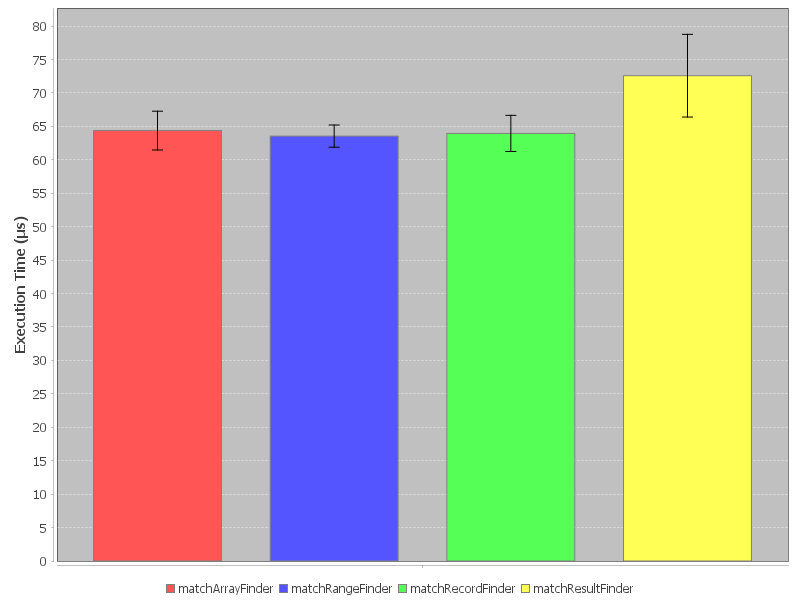
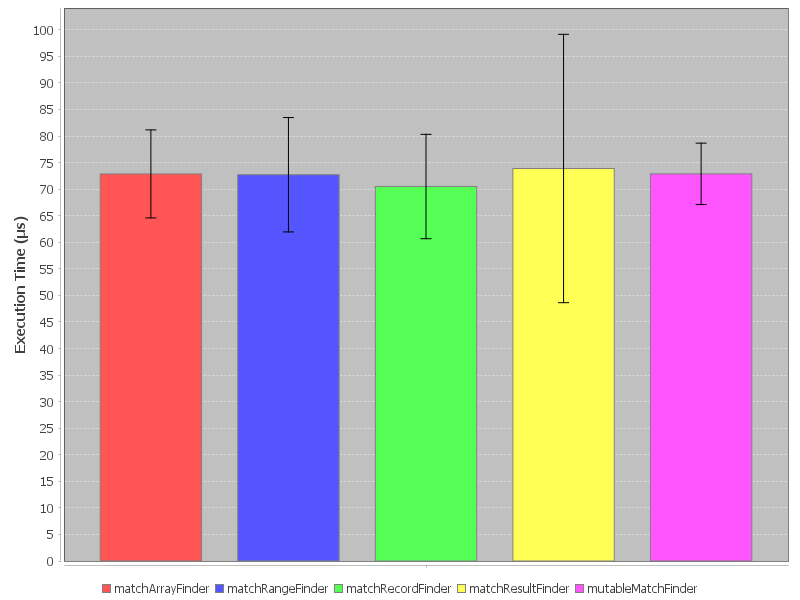
Refactor: new benchmark case to compare object mutation against creating a new object

diff --git a/replacer-backend/replacer-finder-benchmark/src/main/java/es/bvalero/replacer/finder/benchmark/iterable/IterableMutableMatchFinder.java b/replacer-backend/replacer-finder-benchmark/src/main/java/es/bvalero/replacer/finder/benchmark/iterable/IterableMutableMatchFinder.java
@@ -1,0 +1,51 @@
+package es.bvalero.replacer.finder.benchmark.iterable;
+
+import es.bvalero.replacer.finder.FinderPage;
+import java.util.Iterator;
+import java.util.NoSuchElementException;
+import lombok.AccessLevel;
+import lombok.AllArgsConstructor;
+
+@AllArgsConstructor(access = AccessLevel.PRIVATE)
+class IterableMutableMatchFinder {
+
+    public static Iterable<MutableMatch> find(FinderPage page, MutableMatchFinder finder, MutableMatch match) {
+        return () -> new LinearIterator(page, finder, match);
+    }
+
+    private static class LinearIterator implements Iterator<MutableMatch> {
+
+        private final FinderPage page;
+        private final MutableMatchFinder finder;
+        private int start;
+        private final MutableMatch next;
+
+        LinearIterator(FinderPage page, MutableMatchFinder finder, MutableMatch match) {
+            this.page = page;
+            this.finder = finder;
+            this.start = 0;
+            this.next = match;
+        }
+
+        @Override
+        public boolean hasNext() {
+            // This may throw an exception, but it is eventually captured by the indexer.
+            this.finder.findResult(this.page, this.start, this.next);
+            if (this.next.getStart() < 0) {
+                this.start = Integer.MAX_VALUE;
+                return false;
+            } else {
+                this.start = this.next.end();
+                return true;
+            }
+        }
+
+        @Override
+        public MutableMatch next() {
+            if (this.next.getStart() < 0) {
+                throw new NoSuchElementException();
+            }
+            return this.next;
+        }
+    }
+}

diff --git a/replacer-backend/replacer-finder-benchmark/src/main/java/es/bvalero/replacer/finder/benchmark/iterable/MatchFinderJmhBenchmark.java b/replacer-backend/replacer-finder-benchmark/src/main/java/es/bvalero/replacer/finder/benchmark/iterable/MatchFinderJmhBenchmark.java
@@ -21,6 +21,8 @@ public class MatchFinderJmhBenchmark extends BaseFinderJmhBenchmark {
     private static final String fileName = "iterable/match-summary-jmh";
     private static final String word = "_";
 
+    final MutableMatch match = new MutableMatch();
+
     @Override
     @Setup
     public void setUp() throws ReplacerException {
@@ -117,7 +119,27 @@ public class MatchFinderJmhBenchmark extends BaseFinderJmhBenchmark {
         return null;
     }
 
-    private int findStartMatch(String text, int start) {
+    @Benchmark
+    public void mutableMatchFinder(Blackhole bh) {
+        sampleContents
+            .stream()
+            .flatMap(page ->
+                ReplacerUtils.streamOfIterable(IterableMutableMatchFinder.find(page, this::findMutableMatch, match))
+            )
+            .forEach(bh::consume);
+    }
+
+    private void findMutableMatch(FinderPage page, int start, MutableMatch match) {
+        final String text = page.getContent();
+        if (start >= 0 && start < text.length()) {
+            match.setStart(findStartMatch(text, start));
+        } else {
+            match.setStart(-1);
+        }
+        match.setWord(word);
+    }
+
+    private static int findStartMatch(String text, int start) {
         return text.indexOf(word, start);
     }
 

diff --git a/replacer-backend/replacer-finder-benchmark/src/main/java/es/bvalero/replacer/finder/benchmark/iterable/MutableMatch.java b/replacer-backend/replacer-finder-benchmark/src/main/java/es/bvalero/replacer/finder/benchmark/iterable/MutableMatch.java
@@ -1,0 +1,14 @@
+package es.bvalero.replacer.finder.benchmark.iterable;
+
+import lombok.Data;
+
+@Data
+final class MutableMatch {
+
+    private int start;
+    private String word;
+
+    public int end() {
+        return start + word.length();
+    }
+}

diff --git a/replacer-backend/replacer-finder-benchmark/src/main/java/es/bvalero/replacer/finder/benchmark/iterable/MutableMatchFinder.java b/replacer-backend/replacer-finder-benchmark/src/main/java/es/bvalero/replacer/finder/benchmark/iterable/MutableMatchFinder.java
@@ -1,0 +1,8 @@
+package es.bvalero.replacer.finder.benchmark.iterable;
+
+import es.bvalero.replacer.finder.FinderPage;
+
+@FunctionalInterface
+interface MutableMatchFinder {
+    void findResult(FinderPage page, int start, MutableMatch match);
+}
